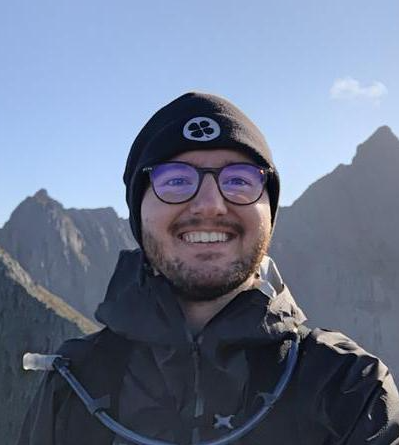
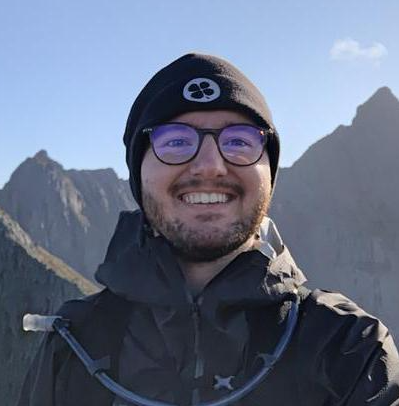
ajout des images des 3 personnes de l'équipe dans la page a propos

diff --git a/sandra/apropos.html b/sandra/apropos.html
@@ -58,7 +58,7 @@
       </div>
       <div class="right">
         <section class="mon-code">
-          <h2 class="titreh2">L'équipe</h2>
+          <h2 class="titres">L'équipe</h2>
           <div>
           <p>
            C'est au cours de leurs études que Yannick, James et Sandra se rencontrent, unis par une curiosité commune pour les cultures du monde et les traditions ancestrales. Après de nombreuses discussions animées autour de leurs passions respectives, ils découvrent qu'ils partagent une fascination particulière pour le thé Matcha, cette poudre de thé vert finement moulue qui a traversé les siècles et est au cœur d'une culture japonaise millénaire.</br>Le goût subtil, les vertus énergisantes et apaisantes, ainsi que l'esthétique de la cérémonie du thé, les séduisent immédiatement. Très vite, ils se rendent compte qu'ils ont non seulement une passion en commun, mais aussi une vision : celle de partager cette expérience unique avec le monde entier, en apportant aux amateurs de thé une qualité exceptionnelle, dans le respect des traditions japonaises.</p>
@@ -69,7 +69,18 @@
           </p>
         </div>
         <div class="photos">
-          
+          <figure>
+          <img src="./img/yannick.png" alt="yannick">
+          <figcaption class="titres">Yannick</figcaption>
+          </figure>
+          <figure>
+          <img src="./img/james.png" alt="yannick">
+          <figcaption class="titres">James</figcaption>
+          </figure>
+          <figure>
+          <img src="./img/sandra.png" alt="yannick">
+          <figcaption class="titres">Sandra</figcaption>
+          </figure>
         </div>
         </section>
         <footer>

diff --git a/sandra/matcha3.css b/sandra/matcha3.css
@@ -70,7 +70,7 @@
     margin: 50px;
 
 }
-.titreh2{
+.titres{
     color: #164D1E;
     font-family: "Leckerli One", serif;
     font-size: 40px;
@@ -85,5 +85,22 @@
     margin: 20px;
     text-align: justify;
     line-height: 29px;
+}
+
+.photos{
+    width: 70%;
+    margin: auto;
+    display: flex;
+    justify-content: space-around;
+}
+
+.photos img{
+    margin-top: 30px;
+    border-radius: 100%;
+    width: 15rem;
+}
+
+.photos img:hover{
+    transform: scale(1.05);
 }
 
